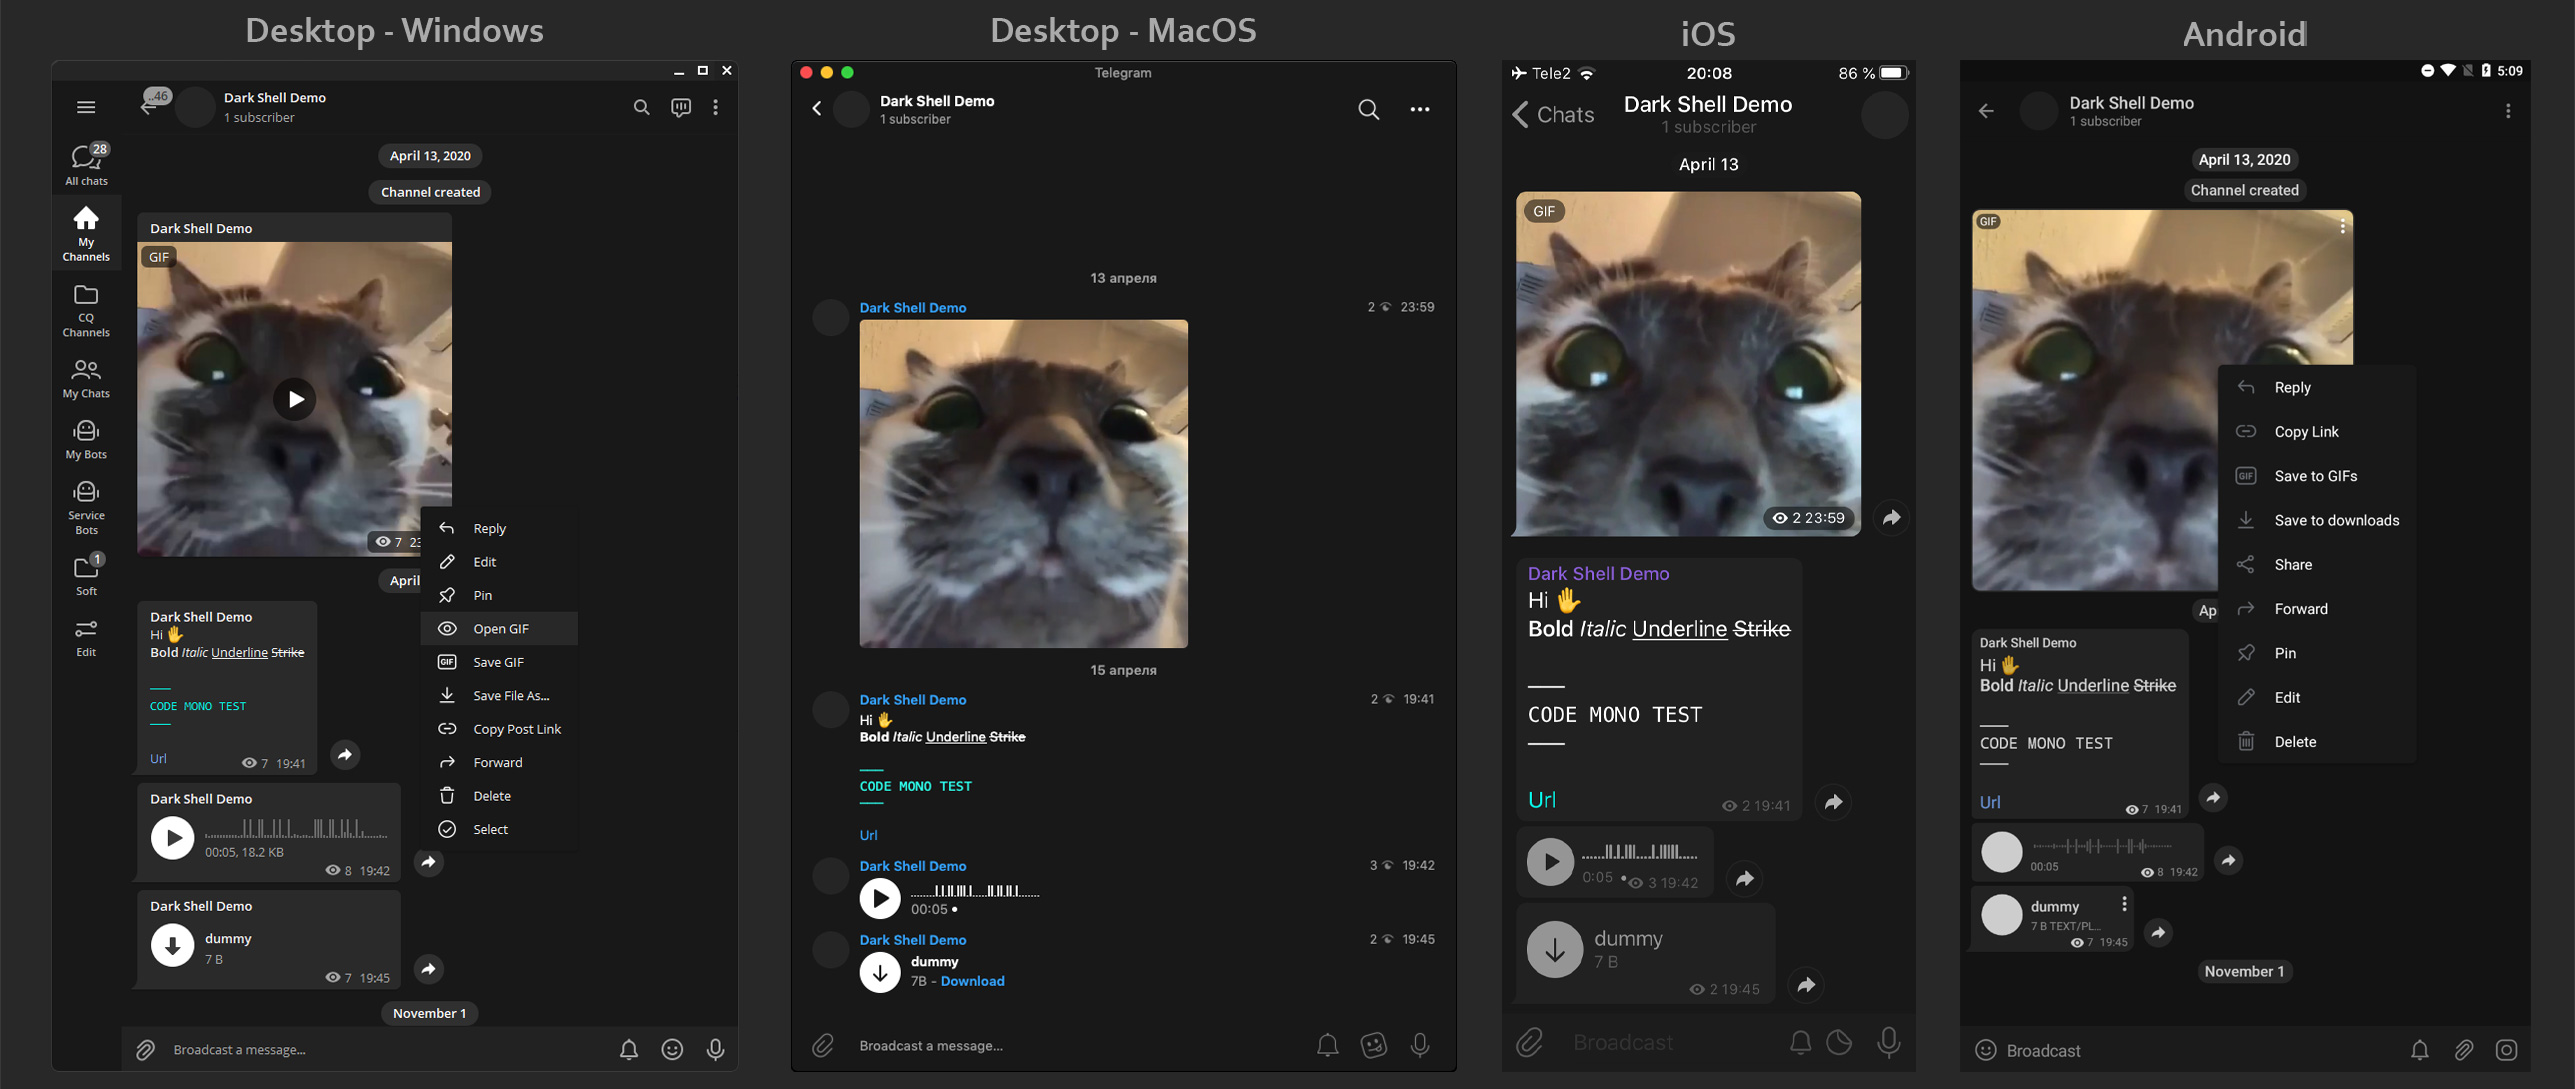
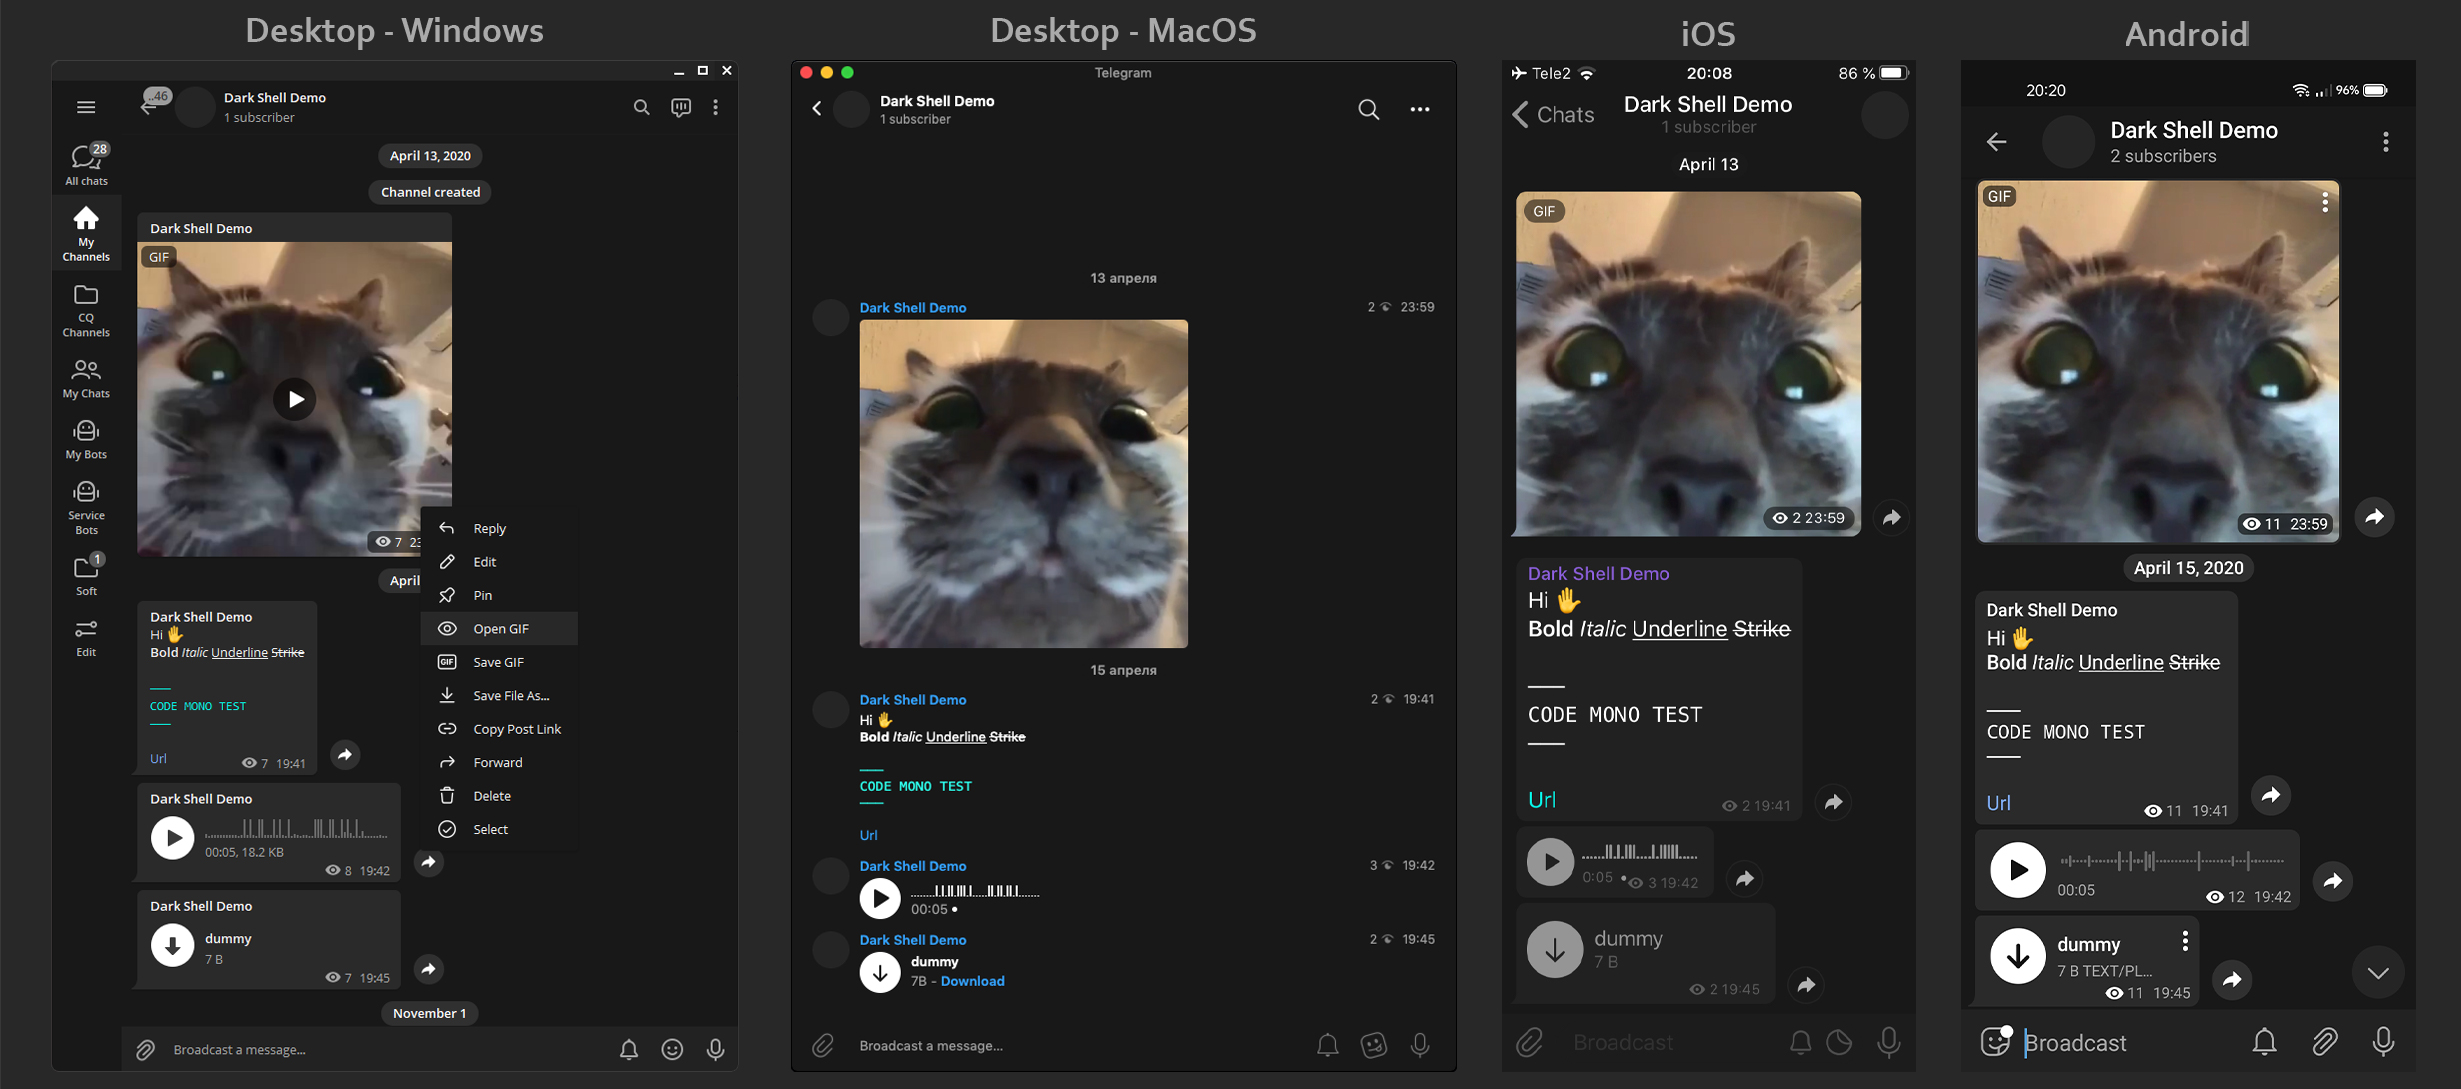
fixed media buttons on `android`, prepare release

diff --git a/CHANGELOG.md b/CHANGELOG.md
@@ -1,15 +1,20 @@
 # Dark Shell Telegram theme Changelog
 
-- [Dark Shell Telegram theme Changelog](#dark-shell-telegram-theme-changelog)
-  - [Update 2022.01.07](#update-20220107)
-    - [Android v2.0 Release](#android-v20-release)
-      - [Changed](#changed)
-    - [TDesktop v1.1 Release](#tdesktop-v11-release)
-      - [Fixed](#fixed)
-      - [Changed](#changed-1)
-    - [Global Changes](#global-changes)
-      - [Changed](#changed-2)
-      - [Removed](#removed)
+## Updates history
+- [Update 2022.02.19](#update-20220219)
+- [Update 2022.01.07](#update-20220107)
+
+
+## Update 2022.02.19
+### Android v2.1 Release
+#### Fixed
+- Media buttons will now be displayed correctly, not just white circles
+- Chat background image was updated and now will be displayed properly in cloud-synced theme
+
+### Global Changes
+#### Changed
+- Preview screenshot updated to current state
+
 
 ## Update 2022.01.07
 ### Android v2.0 Release
